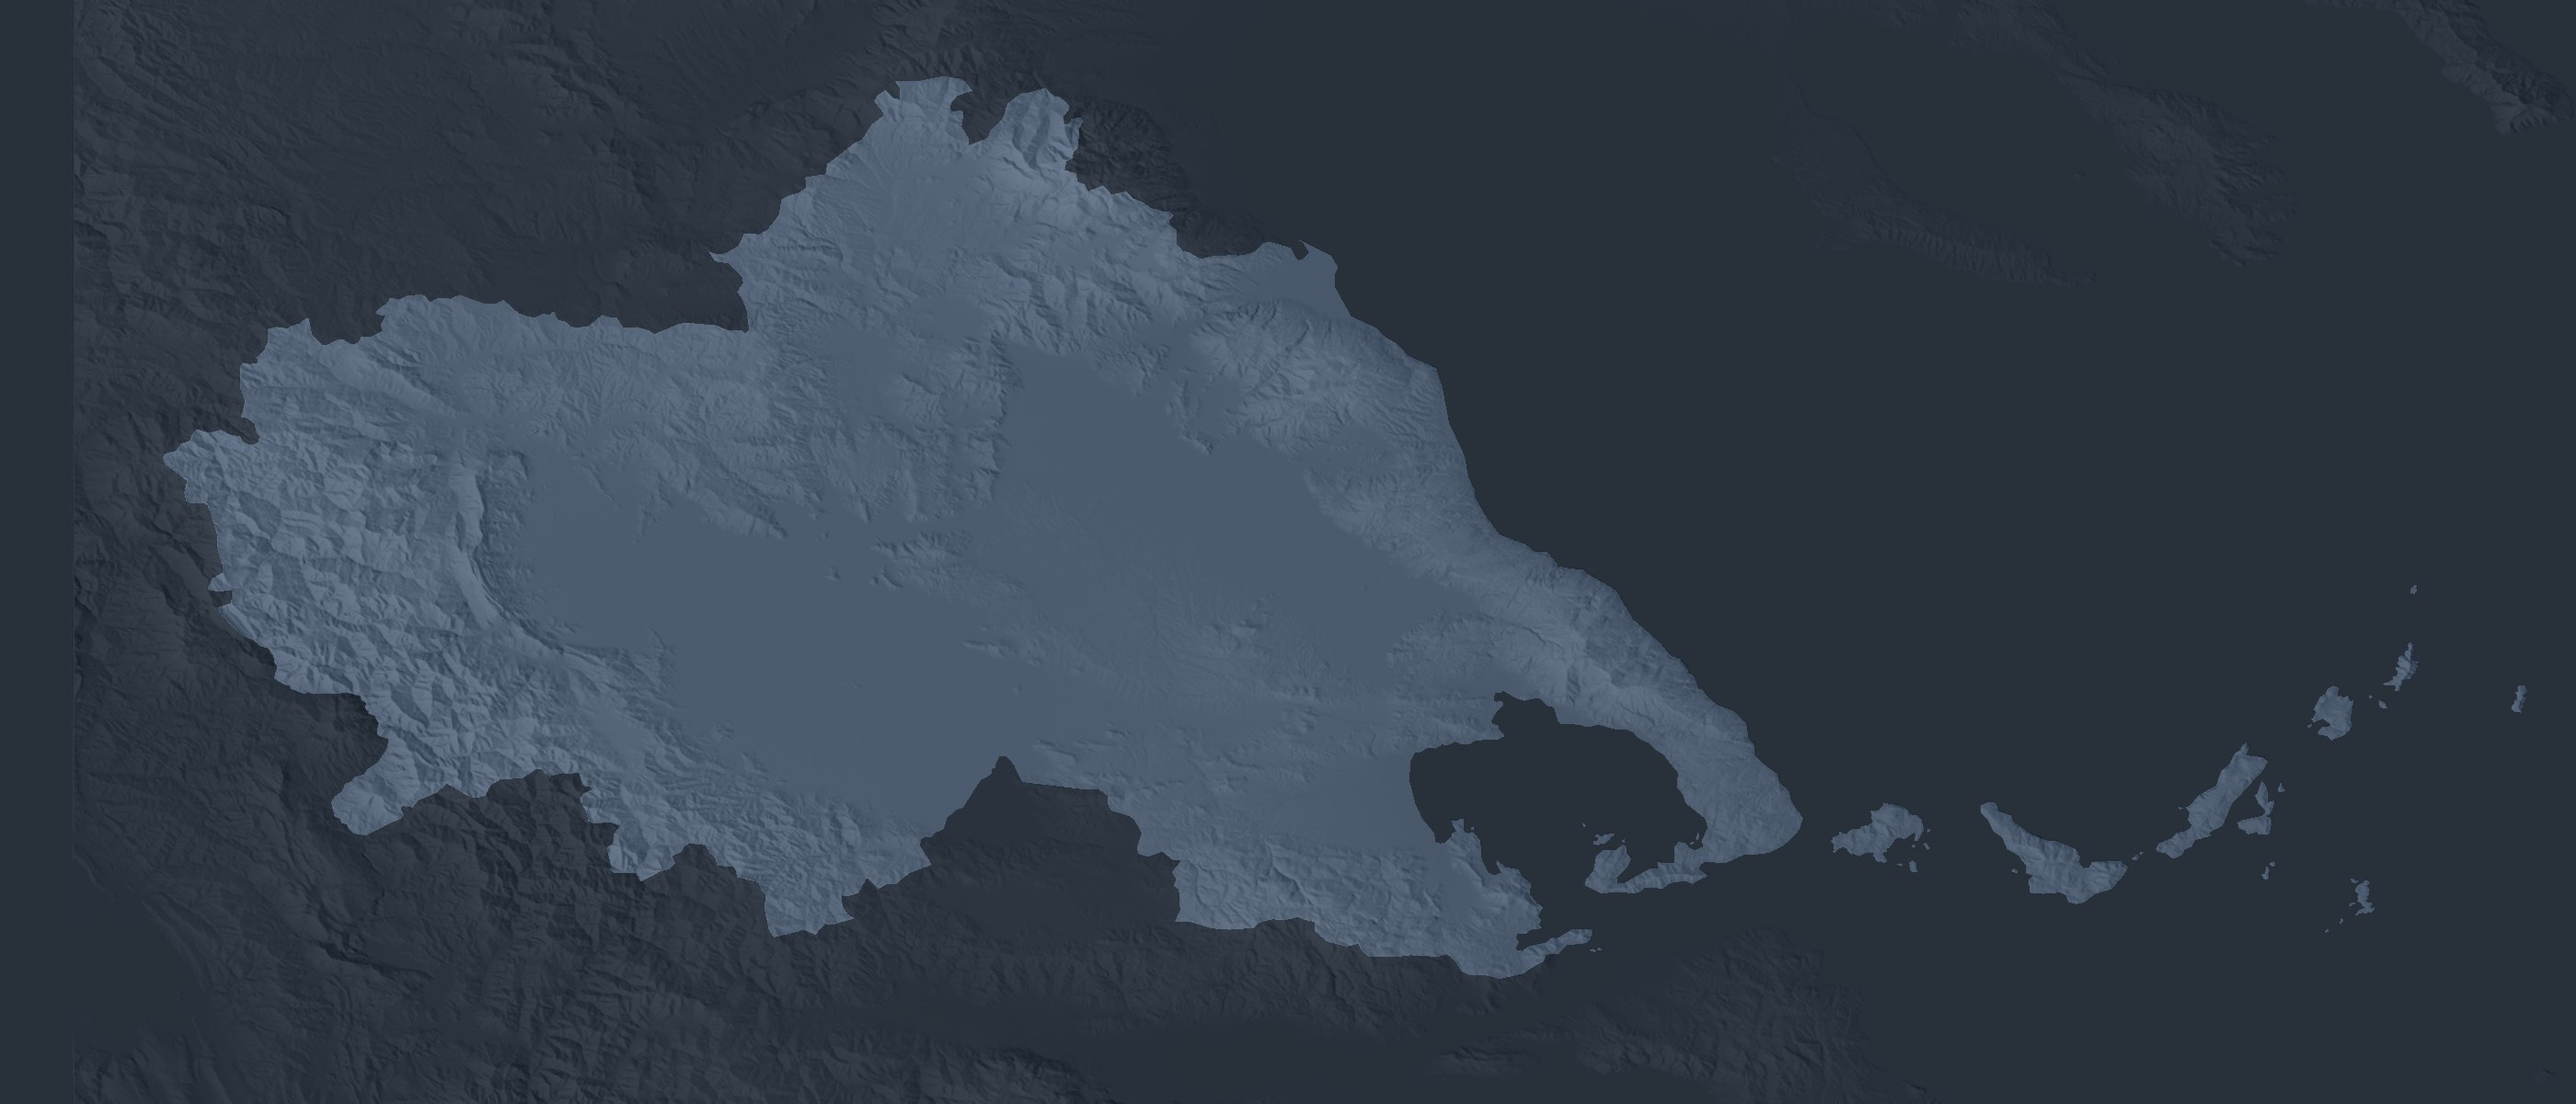
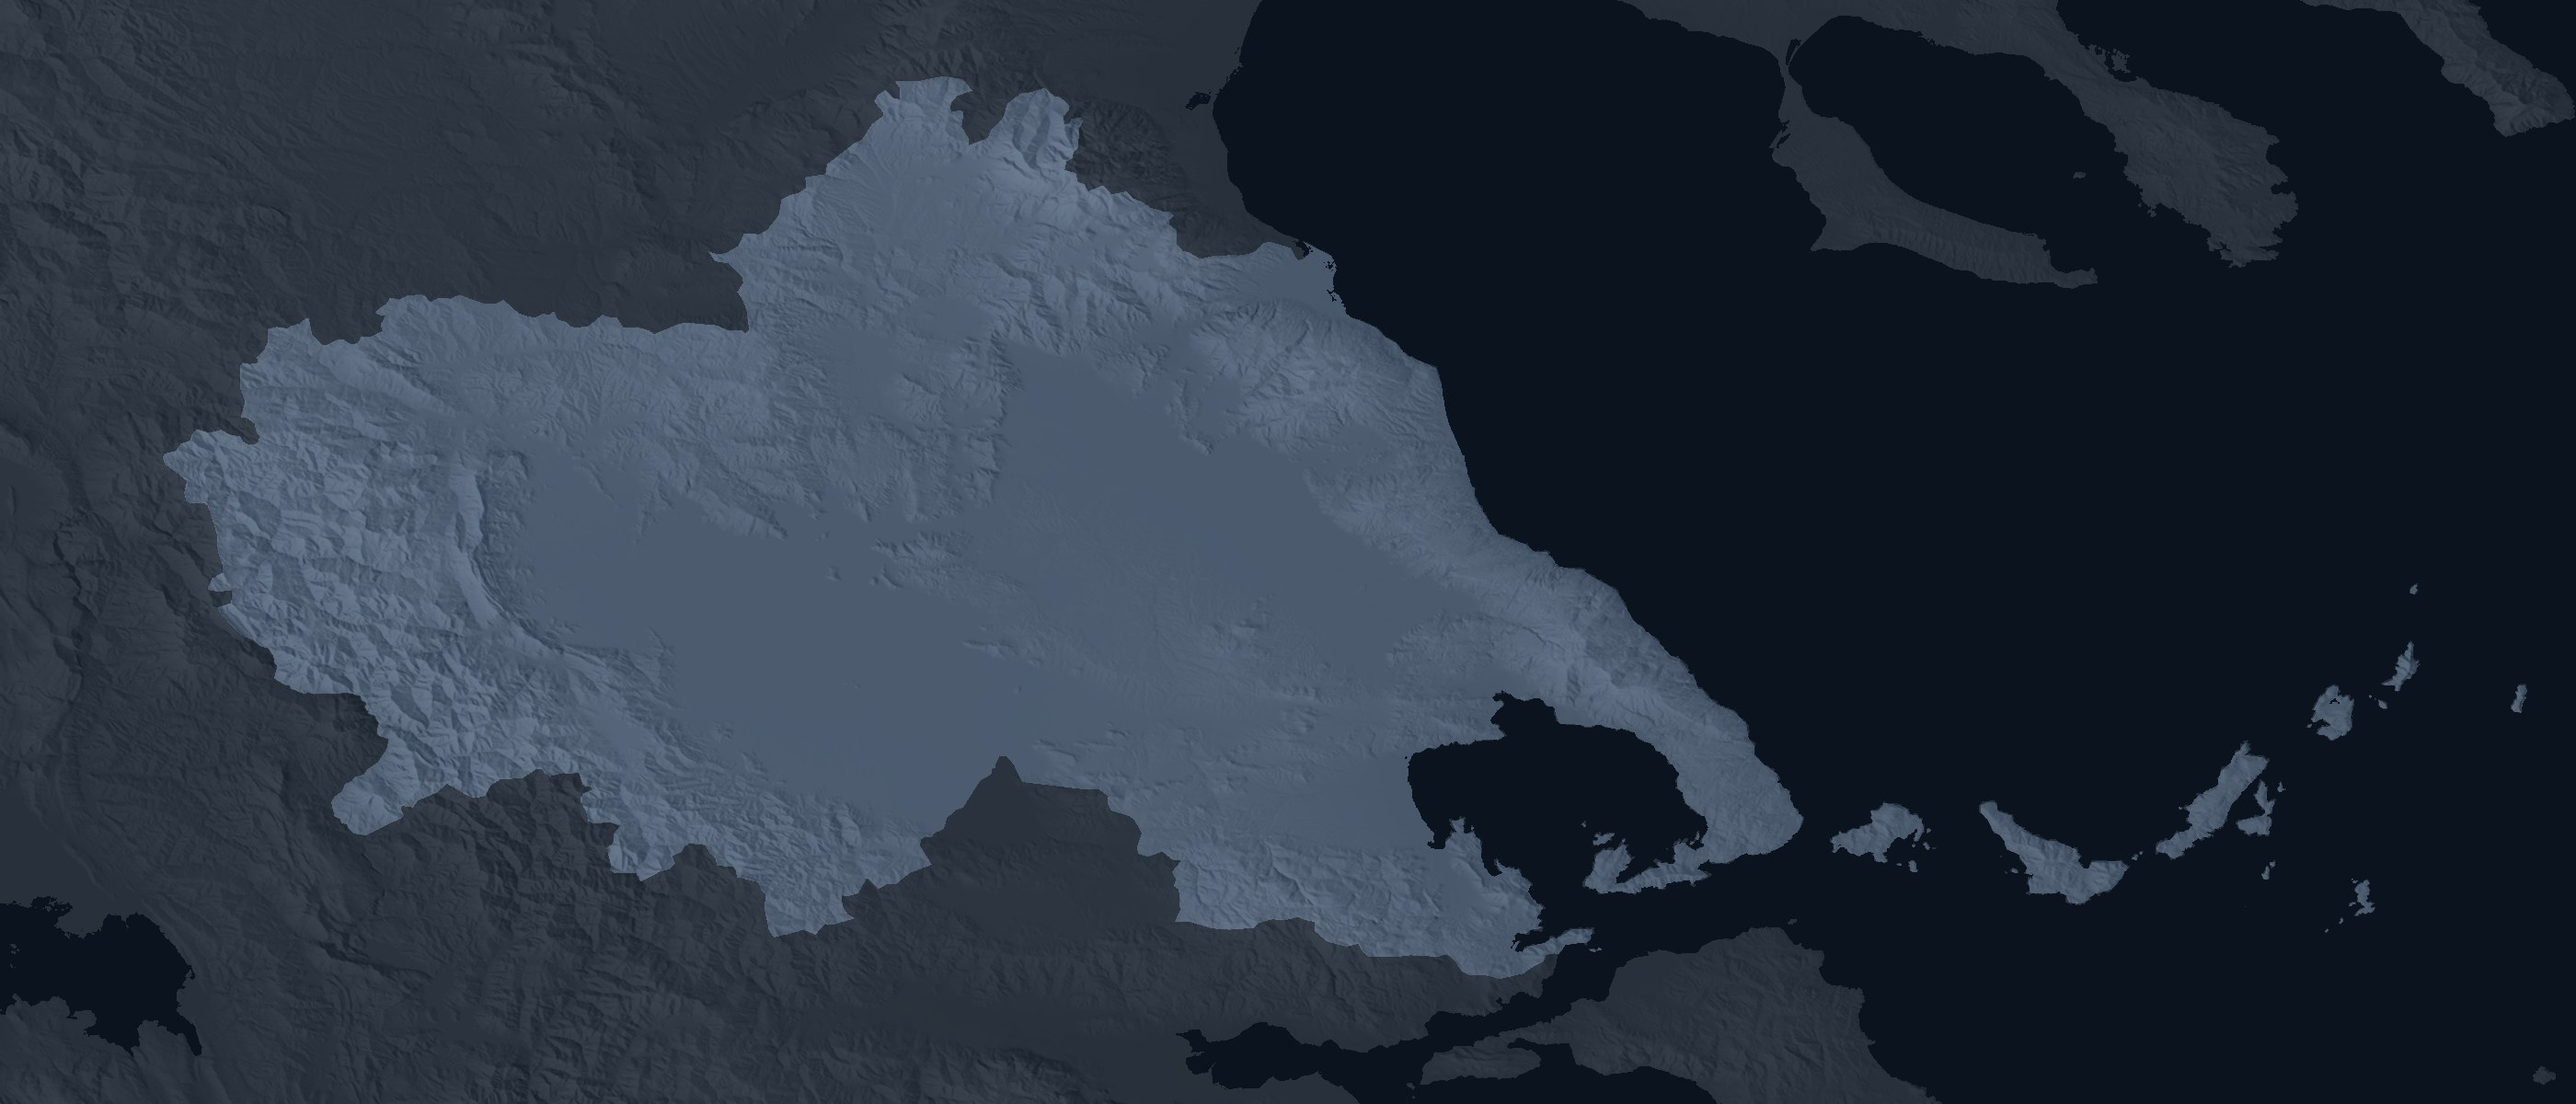
layers-agent: fix solar parks drawn outside Thessaly (in 'sea' west of 21E): clip to region, DEM mosaic incl. E020 tiles; benchmark solar clipped
Claude-Session: https://claude.ai/code/session_01SPFSCyzuGK3aWS6VV7hYb8

diff --git a/thessaly-dataviz/layers-agent/web/build_assets.py b/thessaly-dataviz/layers-agent/web/build_assets.py
@@ -17,15 +17,30 @@ def warp(src_path, w, h, rs=Resampling.bilinear, nodata=np.nan, dtype="float32")
 reg = gpd.read_file(R / "data/border_el61.geojson")
 greece_mask_src = None
 
+# ---- DEM mosaic for the whole texture extent (GLO-90 tiles incl. E020, so the west edge is not empty) ----
+import sys; sys.path.insert(0, str(R / "pipeline")); from common import fetch
+from rasterio.merge import merge
+tiles = []
+for la in (38, 39, 40):
+    for lo in (20, 21, 22, 23, 24):
+        tid = f"Copernicus_DSM_COG_30_N{la:02d}_00_E{lo:03d}_00_DEM"
+        try: tiles.append(fetch(f"https://copernicus-dem-90m.s3.amazonaws.com/{tid}/{tid}.tif"))
+        except Exception as e: print("skip", tid)
+srcs = [rasterio.open(t) for t in tiles]; mos, mtr = merge(srcs, bounds=(W0 - .05, S0 - .05, E0 + .05, N0 + .05))
+prof = srcs[0].profile; prof.update(height=mos.shape[1], width=mos.shape[2], transform=mtr, driver="GTiff", count=1)
+with rasterio.open(C / "dem_mosaic_wgs84.tif", "w", **prof) as o: o.write(mos[0], 1)
+DEMSRC = C / "dem_mosaic_wgs84.tif"
 # ---- heightmap (terrarium) ----
-dem = warp(C / "dem_90m.tif", HW, HH)
+dem = warp(DEMSRC, HW, HH)
+dem[dem < -100] = np.nan
 dem = np.where(np.isnan(dem), -40, np.maximum(dem, -40))
 v = dem + 32768.0
 rgb = np.dstack([np.floor(v / 256), np.floor(v % 256), np.floor((v - np.floor(v)) * 256)]).astype("uint8")
 Image.fromarray(rgb, "RGB").save(OUT / "dem.png", optimize=True)
 
 # ---- base texture: night hillshade ----
-demT = warp(C / "dem_90m.tif", TW, TH); land = ~np.isnan(demT); d = np.nan_to_num(demT, nan=0)
+demT = warp(DEMSRC, TW, TH); demT[demT < -100] = np.nan
+land = ~np.isnan(demT) & (demT > 0.5); d = np.nan_to_num(demT, nan=0)
 lat = np.linspace(N0, S0, TH)[:, None]; dx = (E0 - W0) / TW * 111320 * np.cos(np.radians(lat)); dy = (N0 - S0) / TH * 110540
 gy, gx = np.gradient(d); gx = gx / dx; gy = -gy / dy
 def shade(az, alt):
@@ -94,6 +109,7 @@ pl = lines(pw[pw["class"] == "power_line"].geometry.clip(regw), 0.001)
 subs = pw[pw["class"] == "substation"].copy(); subs["geometry"] = subs.geometry.centroid; subs = subs[subs.within(regw)]
 sp = [[round(p.x, 4), round(p.y, 4), int(z)] for p, z in zip(subs.geometry, z_at(subs.geometry.x, subs.geometry.y))]
 sol = gpd.read_file(R / "data/solar_plants.geojson"); sol["geometry"] = sol.to_crs(2100).centroid.to_crs(4326)
+sol = sol[sol.within(reg.geometry.iloc[0].buffer(0.01))]
 so = [[round(p.x, 4), round(p.y, 4), int(z)] for p, z in zip(sol.geometry, z_at(sol.geometry.x, sol.geometry.y))]
 loc = pd.read_parquet(C / "ov_localities.parquet"); loc = loc[loc["class"].isin(["city", "town"])]
 loc = gpd.GeoDataFrame(loc, geometry=gpd.points_from_xy(loc.lon, loc.lat), crs=4326)

diff --git a/thessaly-dataviz/layers-agent/bench/run_bench.py b/thessaly-dataviz/layers-agent/bench/run_bench.py
@@ -42,7 +42,7 @@ with rasterio.open(ROOT / "cache" / "slope_90m.tif") as r: slope = r.read(1)
 import json as _j, pandas as pd
 nat = pd.concat([gpd.read_file(ROOT / "cache" / f"natura_{i}.geojson") for i in (0, 1)]).to_crs(crs)
 natr = rasterize([(g, 1) for g in nat.geometry], out_shape=dem.shape, transform=tr, fill=0).astype(bool)
-sol = gpd.read_file(ROOT / "data" / "solar_plants.geojson").to_crs(crs)
+sol = gpd.read_file(ROOT / "data" / "solar_plants.geojson").to_crs(crs).clip(reg)   # file covers the whole bbox
 
 t = (flood & inreg & (dem < 100)).sum() * px
 v = km2("daniel_flood_share", "elev_mean_m < 100")
